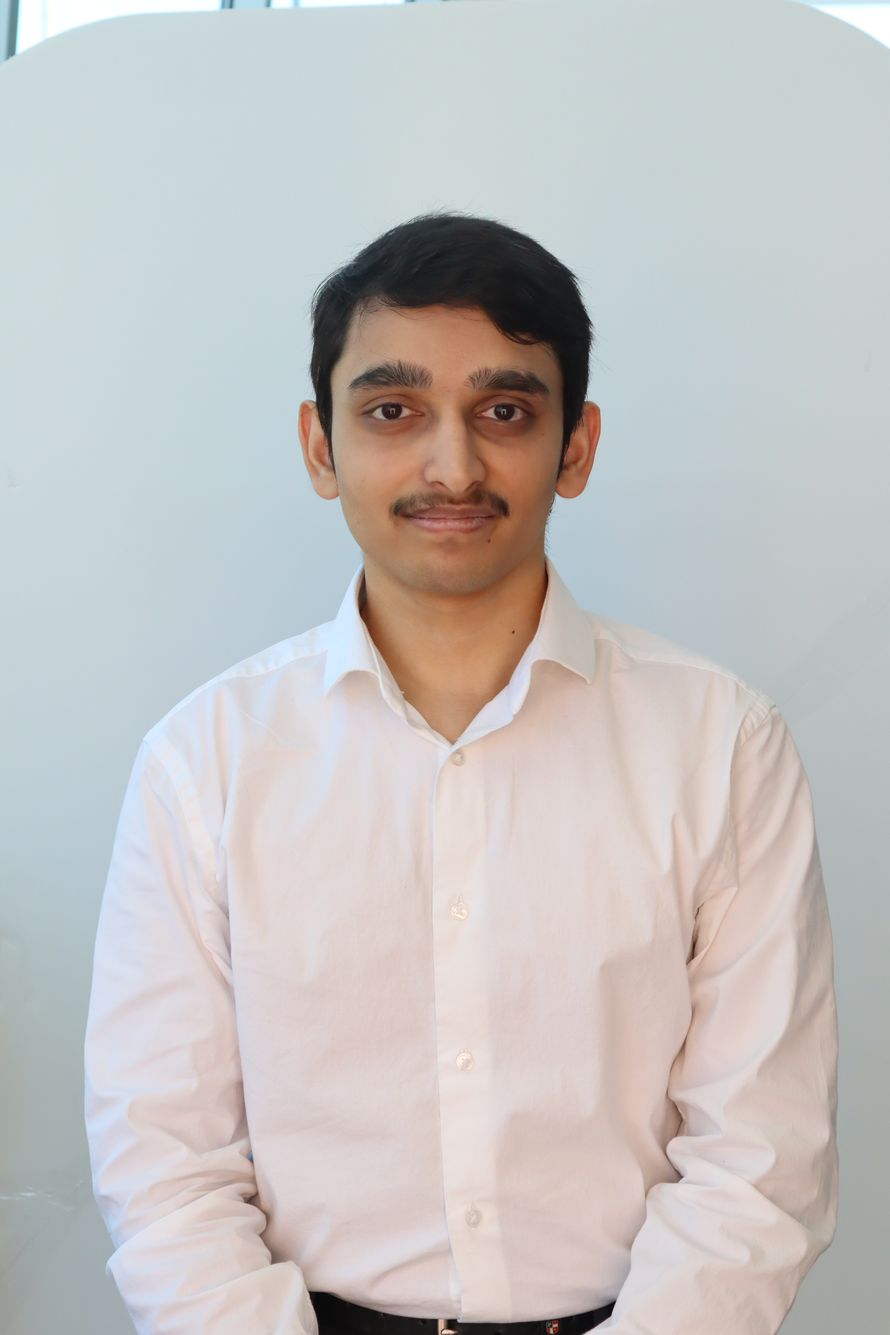
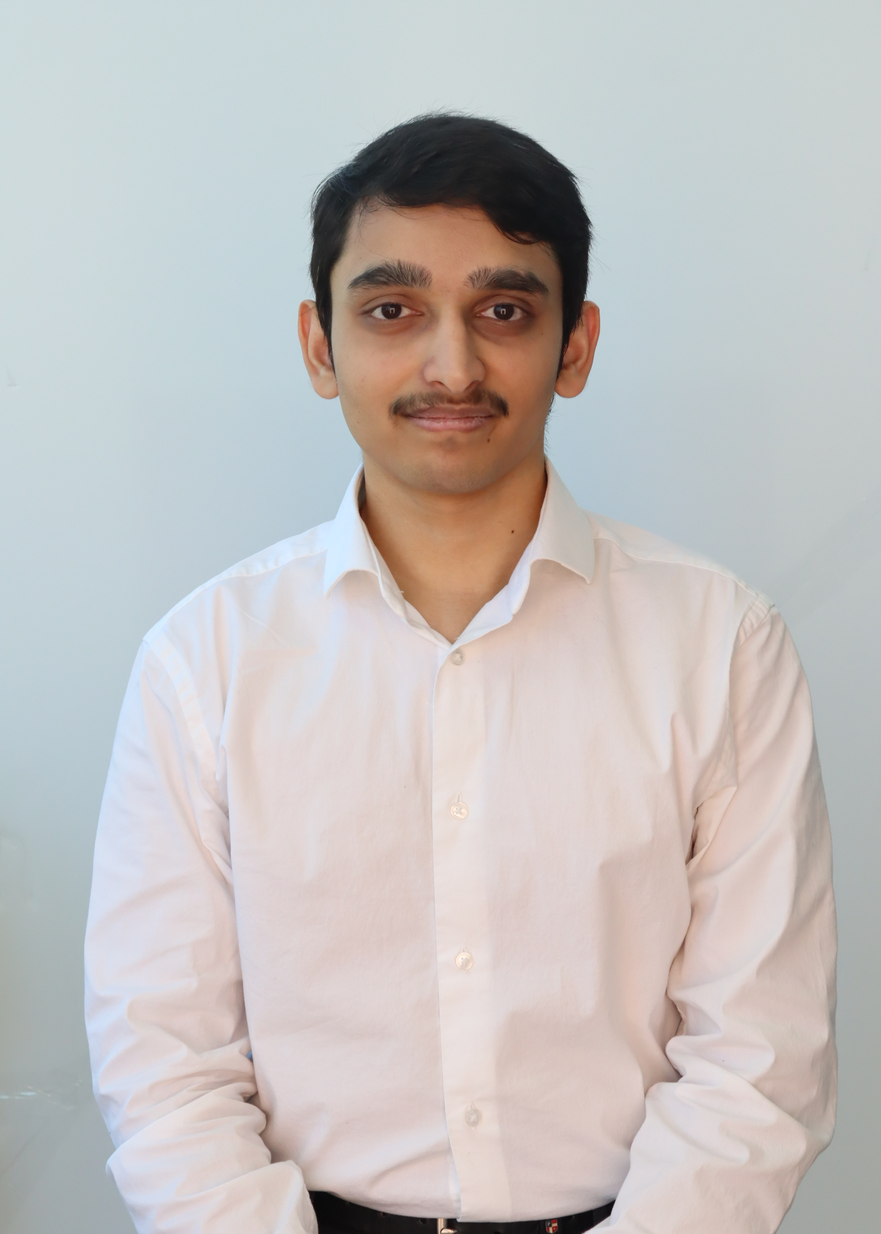
adding user Pictures

diff --git a/sparklink/src/component/about/AboutComponent.jsx b/sparklink/src/component/about/AboutComponent.jsx
@@ -5,7 +5,7 @@ import React from 'react';
 import './AboutComponent.css'
 import Pooja from './images/Pooja.jpg';
 import Gireesh from './images/Gireesh.jpg';
-import Avatar from './images/Avatar.jpg';
+import Aman from './images/Aman.jpg';
 import Joshua from './images/Joshua.jpeg';
 import Micheal from './images/Micheal.jpeg';
 import Kausar from './images/Kausar.jpg';
@@ -57,7 +57,7 @@ const AboutComponent = () => {
       name: 'Amanbhai Arifbhai',
       role: 'Mobile UI & Recommendation System',
       responsibilities: 'Designed the mobile UI and implemented the recommendation system.',
-      image: Avatar,
+      image: Aman,
       LinkedIn:'',
     },
   ];
